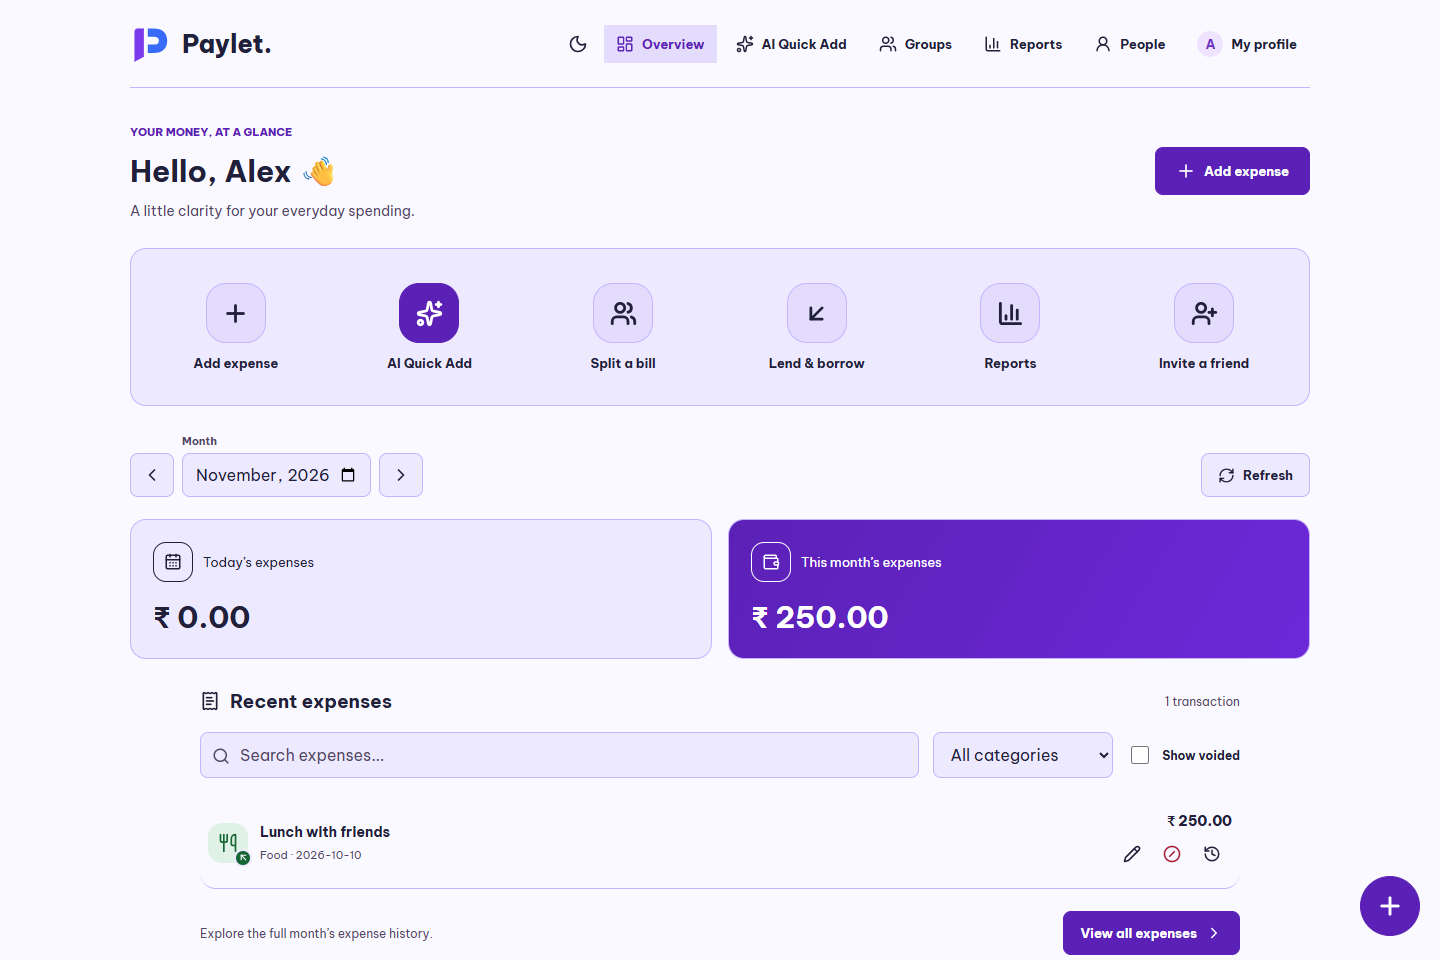
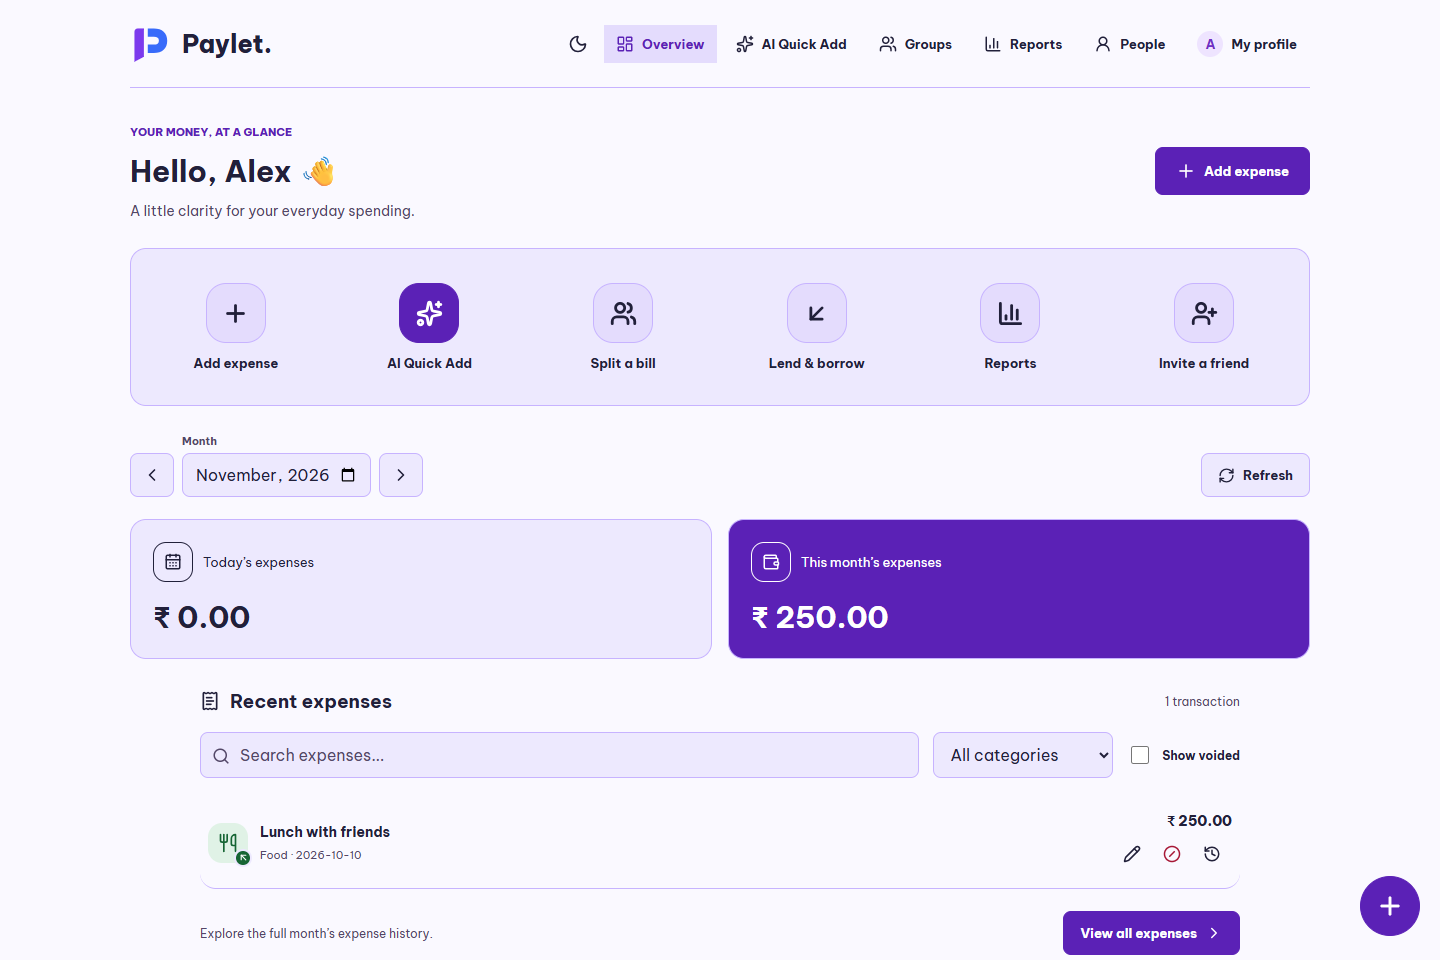
Use solid UI colors and blend login and signup with the page

Changed region(s): [[0.75, 0.5312, 0.9062, 0.6875]]

diff --git a/frontend/tests/ui.spec.ts b/frontend/tests/ui.spec.ts
@@ -243,7 +243,7 @@ test("daily and monthly amount cards separate currencies, exclude voids and use 
     if(await page.locator('html').getAttribute('data-theme')!==theme) await page.getByRole('button',{name:`Switch to ${theme} mode`}).click();
     for(const card of [today,monthly]) {
       await expect(card.locator('.expense-total').first()).toHaveCSS('color',card===today && theme==='light'?'rgb(33, 32, 58)':'rgb(255, 255, 255)');
-      expect(await card.evaluate(el=>getComputedStyle(el).backgroundImage)).toBe(card === today ? 'none' : theme === 'dark' ? 'linear-gradient(120deg, rgb(33, 38, 49), rgb(55, 63, 78))' : 'linear-gradient(120deg, rgb(91, 33, 182), rgb(109, 40, 217))');
+      await expect(card).toHaveCSS("background-image", "none");
     }
     await page.setViewportSize({width:320,height:800});
     expect(await page.evaluate(()=>document.documentElement.scrollWidth<=innerWidth)).toBe(true);
@@ -655,7 +655,7 @@ test("theme preference persists and compact expense rows retain their actions", 
   if (await page.locator("html").getAttribute("data-theme") === "dark") await page.getByRole("button", { name: "Switch to light mode" }).click();
   const expense = page.getByRole("article").filter({ hasText: "Lunch with friends" });
   await expect(expense).toBeVisible();
-  expect(await expense.evaluate((element) => getComputedStyle(element).backgroundColor)).toBe("rgba(0, 0, 0, 0)");
+  expect(await expense.evaluate((element) => getComputedStyle(element).backgroundColor)).toBe("rgb(250, 249, 255)");
   for (const name of ["Edit", "Void", "History"]) {
     const action = expense.getByRole("button", { name, exact: true });
     await expect(action).toBeVisible();
@@ -1216,7 +1216,7 @@ test("Dashboard shortcuts and AI Quick Add follow charcoal and lavender in both 
     expect(await page.evaluate(() => document.documentElement.scrollWidth <= innerWidth)).toBe(true);
   }
 });
-test("logout gradient fits mobile in both themes with only two buttons", async ({ page }) => {
+test("solid logout dialog fits mobile in both themes with only two buttons", async ({ page }) => {
   await mockApi(page);
   await page.setViewportSize({ width: 360, height: 800 });
   await page.goto("/");
@@ -1225,14 +1225,14 @@ test("logout gradient fits mobile in both themes with only two buttons", async (
     await page.getByRole("button", { name: "Log out", exact: true }).click();
     const dialog = page.getByRole("dialog", { name: "Log out of Paylet?" });
     await expect(dialog.getByRole("button")).toHaveCount(2);
-    expect(await dialog.evaluate((element) => getComputedStyle(element).backgroundImage)).toContain("linear-gradient");
+    expect(await dialog.evaluate((element) => getComputedStyle(element).backgroundImage)).toBe("none");
     const box = await dialog.boundingBox();
     expect(box!.x).toBeGreaterThanOrEqual(0); expect(box!.x + box!.width).toBeLessThanOrEqual(360);
     await dialog.screenshot({ path: `test-results/logout-simple-${theme}.png` });
     await dialog.getByRole("button", { name: "Cancel", exact: true }).click();
   }
 });
-test("dashboard refresh uses neutral expense rows and solid blue/pink lending cards", async ({ page }) => {
+test("dashboard refresh uses solid expense rows and lending cards", async ({ page }) => {
   await mockApi(page);
   await page.route("**/api/loans/summary", (route) => route.fulfill({ json: { totals: [{ currency: "INR", minorUnit: 2, totalLent: "5000.00", repaymentsReceived: "1000.00", owedToYou: "4000.00", totalBorrowed: "3000.00", repaymentsMade: "500.00", youOwe: "2500.00" }] } }));
   await page.goto("/?view=dashboard");

diff --git a/frontend/src/application-theme.css b/frontend/src/application-theme.css
@@ -10,7 +10,7 @@
   --blue-text: #5b21b6;
   --theme-action: #5b21b6;
   --theme-action-text: #fff;
-  --theme-feature: linear-gradient(120deg, #5b21b6, #6d28d9);
+  --theme-feature: #5b21b6;
   --theme-feature-text: #fff;
   --theme-void-icon: #a71836;
 }
@@ -27,7 +27,7 @@
   --blue-text: #e0e4eb;
   --theme-action: #e0e4eb;
   --theme-action-text: #0a0e15;
-  --theme-feature: linear-gradient(120deg, #212631, #373f4e);
+  --theme-feature: #373f4e;
   --theme-feature-text: #fff;
   --theme-void-icon: #ff8197;
 }
@@ -107,15 +107,14 @@
 }
 
 :root[data-theme] .auth-layout .auth-card {
-  background: var(--surface);
-  border-color: var(--border);
+  background: var(--page-bg);
   color: var(--text);
 }
 
 :root[data-theme] .people-profile-grid .profile-panel.person-card,
 :root[data-theme] .people-profile-grid .profile-panel.person-card:nth-child(even),
 :root[data-theme] .shared-payment-card {
-  background: linear-gradient(145deg, var(--surface), var(--surface-alt));
+  background: var(--surface);
   border-color: var(--border);
   color: var(--text);
   box-shadow: none;
@@ -157,7 +156,7 @@
 
 :root[data-theme] .auth-layout .intro-panel,
 :root[data-theme] .profile-screen .profile-identity-card {
-  background: linear-gradient(135deg, var(--surface), var(--surface-alt));
+  background: var(--surface);
   border-color: var(--border);
   color: var(--text);
 }
@@ -180,4 +179,38 @@
 :root[data-theme] .people-profile-grid .person-icon-actions .button-blue {
   background: var(--action-blue);
   border-color: var(--action-blue);
+}
+
+:root[data-theme] :is(.paylet-modal.logout-modal, .groups-refresh .pg-inbox, .groups-refresh .pg-group-bills, .groups-refresh .pg-add-member) {
+  background: var(--surface);
+  border-color: var(--border);
+}
+
+:root[data-theme] .pqa .pqa-input-modes button:not([aria-pressed="true"]) {
+  background: var(--surface-alt);
+}
+
+.auth-layout .auth-card .mode-switch {
+  background: var(--surface);
+}
+
+.auth-layout .auth-card .mode-switch button {
+  background: var(--surface);
+  color: var(--muted);
+}
+
+.auth-layout .auth-card .mode-switch button.selected {
+  background: var(--theme-action);
+  color: var(--theme-action-text);
+  box-shadow: none;
+}
+
+.auth-layout .auth-card :is(.password-toggle, .forgot-password-link, .auth-home-link) {
+  color: var(--text);
+}
+
+@media (max-width: 800px) {
+  :root[data-theme] .auth-layout .intro-panel {
+    background: var(--page-bg);
+  }
 }

diff --git a/frontend/src/components/dashboard-refresh.css b/frontend/src/components/dashboard-refresh.css
@@ -8,7 +8,7 @@
 [data-theme="dark"] .home-page .header-actions .dashboard-ai-nav { color: #49351c; background: linear-gradient(120deg, #fffaf0, #f0dfba); border-color: #e4cf9f; box-shadow: 0 3px 12px #e6d5aa22; }
 .home-page .summary-grid .summary-card :is(p, strong), [data-theme="dark"] .home-page .summary-grid .summary-card :is(p, strong) { color: #fff; }
 .home-page .expense-list { width: min(100%, 1040px); margin-inline: auto; }
-.home-page .expense-row { display: grid; grid-template-columns: minmax(0, 1fr) auto; gap: 16px; border-radius: 0; margin: 0; border: 0; border-bottom: 1px solid var(--border); padding: 14px 8px; background: transparent; color: var(--text); }
+.home-page .expense-row { display: grid; grid-template-columns: minmax(0, 1fr) auto; gap: 16px; border-radius: 0; margin: 0; border: 0; border-bottom: 1px solid var(--border); padding: 14px 8px; background: var(--page-bg); color: var(--text); }
 .home-page .expense-row:hover { filter: none; background: var(--surface-alt); }
 .home-page .expense-row h3 { color: var(--text); font-size: 14px; font-weight: 650; line-height: 1.5; overflow-wrap: anywhere; }
 .home-page .expense-row p { color: var(--muted); opacity: 1; font-size: 11px; margin-top: 4px; }
@@ -178,7 +178,7 @@ body:has(dialog[open]) .dashboard-fab { display: none; }
 
 :root[data-theme] .home-page .header-actions > .button,
 :root[data-theme] .home-page .expense-row-actions > .button {
-  background: transparent;
+  background: var(--page-bg);
   border-color: transparent;
   box-shadow: none;
   color: var(--text);
@@ -196,4 +196,9 @@ body:has(dialog[open]) .dashboard-fab { display: none; }
 .home-page :is(.header-actions, .expense-row-actions) > .button:focus-visible {
   outline: 2px solid var(--purple);
   outline-offset: 2px;
+}
+
+:root[data-theme] .home-page .expense-row:hover .expense-row-actions > .button:not(:hover),
+:root[data-theme] .home-page .expense-row.is-void .expense-row-actions > .button:not(:hover) {
+  background: var(--surface-alt);
 }

diff --git a/frontend/src/components/landing-redesign.css b/frontend/src/components/landing-redesign.css
@@ -255,7 +255,7 @@
 }
 
 :root[data-theme] .landing-page .landing-clean-hero {
-  background: radial-gradient(ellipse at 50% 0%, color-mix(in srgb, var(--purple) 15%, transparent), transparent 68%), var(--page-bg);
+  background: var(--page-bg);
   border-color: var(--border);
 }
 
@@ -300,3 +300,5 @@
   border-color: var(--purple);
   box-shadow: none;
 }
+
+:root[data-theme] .landing-page .landing-header { backdrop-filter: none; }
